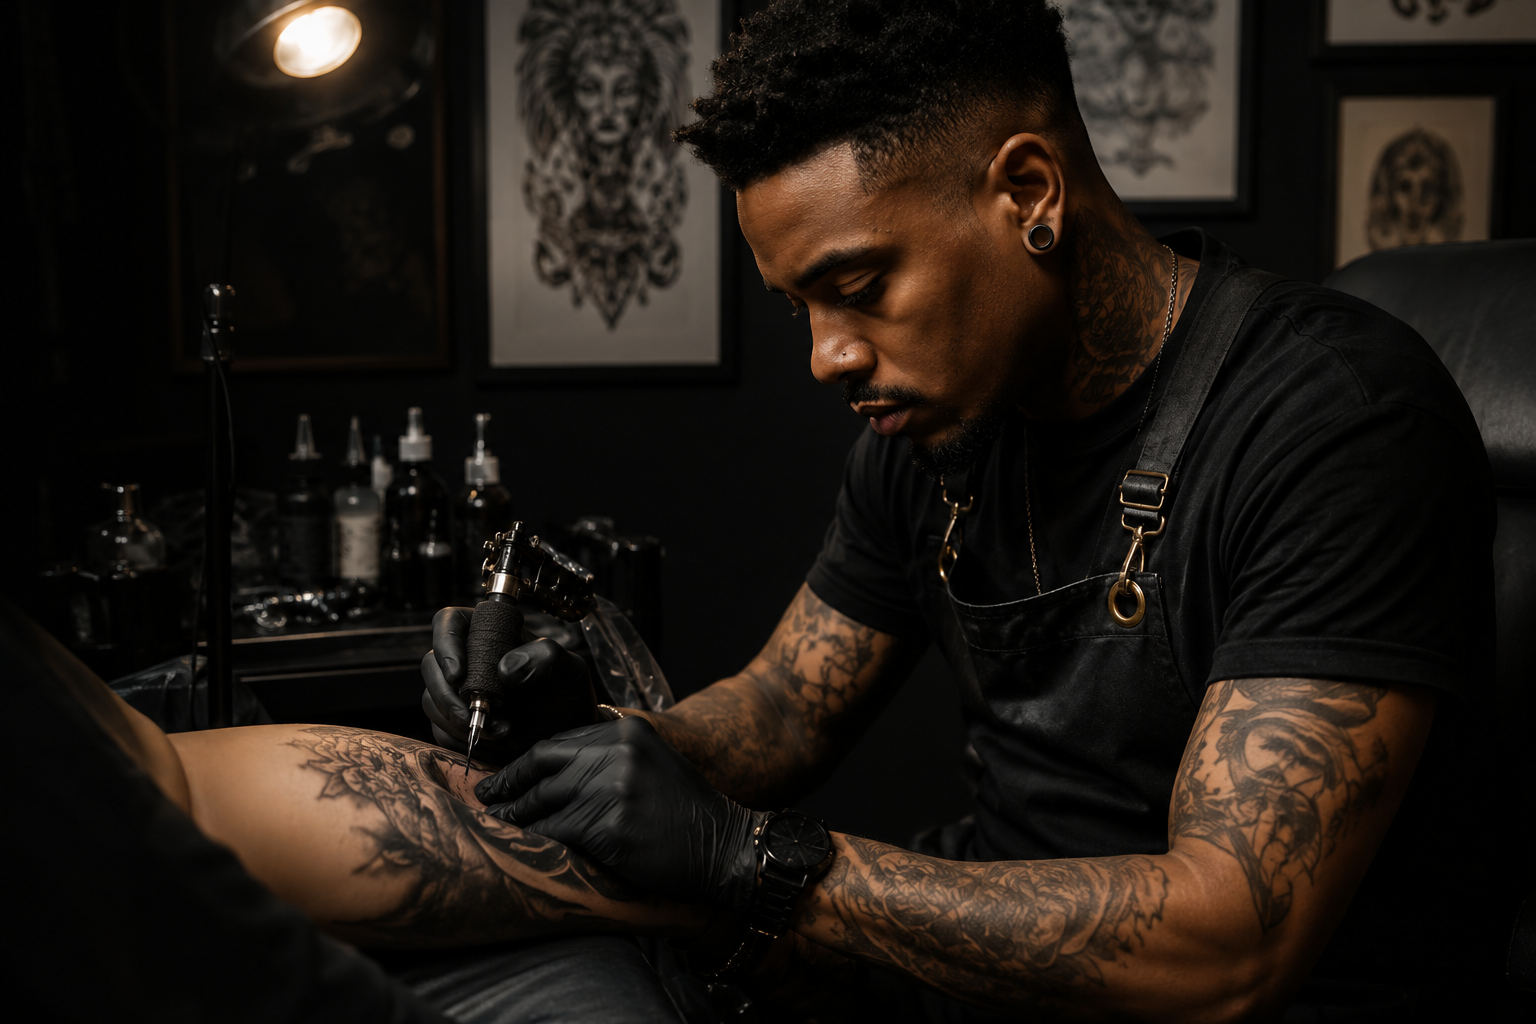
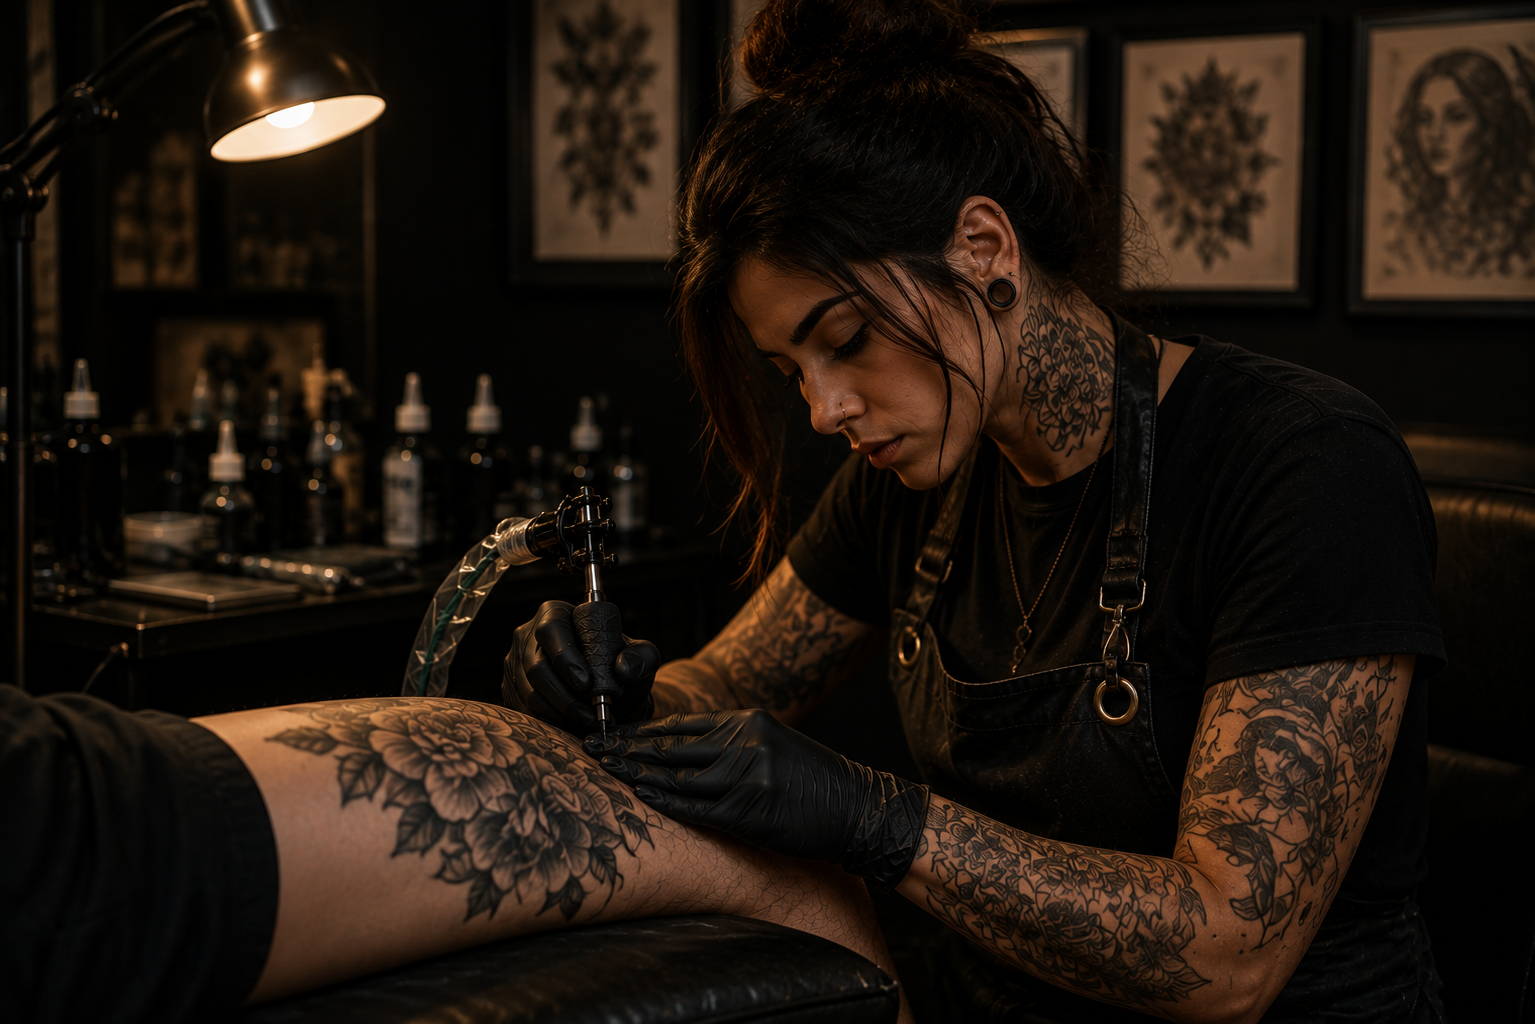
Complete landing page

diff --git a/index.html b/index.html
@@ -42,7 +42,7 @@
       <section class="about" id="about">
 
         <div class="about__image">
-          <img src="images/hero.jpg" alt="Ashton, tattoo artist">
+          <img src="images/ashton.png" alt="Ashton, tattoo artist">
         </div>
 
         <div class="about__content">
@@ -80,7 +80,7 @@
           <article class="service-card">
             
             <div class="service-card__image">
-              <img src="images/hero.jpg" alt="Custom tattoo artwork by Ashton">
+              <img src="images/ashton.png" alt="Custom tattoo artwork by Ashton">
             </div>
             
             <div class="service-card__content">
@@ -102,7 +102,7 @@
             
             <div class="service-card__image">
               
-              <img src="images/hero.jpg" alt="Hand drawn artwork by Ashton">
+              <img src="images/drawing-service.png" alt="Hand drawn artwork by Ashton">
             </div>
             
             <div class="service-card__content">
@@ -144,7 +144,7 @@
         <div class="featured-work__main">
 
           <div class="featured-work__image">
-            <img src="images/hero.jpg" alt="Featured tattoo artwork by Ashton">
+            <img src="images/featured-tattoo.png" alt="Featured tattoo artwork by Ashton">
           </div>
 
           <div class="featured-work__info">
@@ -174,11 +174,11 @@
         <div class="featured-work__bottom">
           
           <div class="featured-work__mini">
-            <img src="images/hero.jpg" alt="Tattoo artwork by Ashton">
+            <img src="images/featured-work-tattoo.png" alt="Tattoo artwork by Ashton">
           </div>
 
           <div class="featured-work__mini">
-            <img src="images/hero.jpg" alt="Hand drawing by Ashton">
+            <img src="images/featured-work-drawing.png" alt="Hand drawing by Ashton">
           </div>
 
           <a href="gallery.html" class="featured-work__gallery-link">View Full Gallery<i class="fas fa-arrow-right"></i></a>
@@ -207,19 +207,19 @@
         <div class="gallery-preview__grid">
           
           <div class="gallery-preview__item gallery-preview__item--large">
-            <img src="images/hero.jpg" alt="Tattoo artwork by Ashton">
+            <img src="images/gallery-1.png" alt="Tattoo artwork by Ashton">
           </div>
           
           <div class="gallery-preview__item">
-            <img src="images/hero.jpg" alt="Tattoo artwork by Ashton">
+            <img src="images/gallery-2.png" alt="Tattoo artwork by Ashton">
           </div>
           
           <div class="gallery-preview__item">
-            <img src="images/hero.jpg" alt="Hand drawing by Ashton"> 
+            <img src="images/gallery-3.png" alt="Hand drawing by Ashton"> 
           </div>
 
           <div class="gallery-preview__item gallery-preview__item--wide">
-            <img src="images/hero.jpg" alt="Artwork by Ashton">
+            <img src="images/gallery-4.png" alt="Artwork by Ashton">
           </div>
 
         </div>
@@ -265,6 +265,101 @@
 
       
     </main>
+    
+    <!-- FOOTER -->
+    <footer class="footer">
+      
+      <div class="footer__main">
+        
+        <!-- BRAND -->
+        <div class="footer__brand">
+          
+          
+          <!-- NEED TO TEPLACE WITH REAL IMAGE-->
+          
+          <a href="#" class="footer__logo">
+            Ashton
+            <span>TATTOO ARTIST</span>
+          </a>
+          
+          <p>
+            Creating art that speaks inspires and lasts.
+          </p>
+
+        </div>
+        
+        <!-- QUICK LINKS -->
+        <div class="footer__column">
+          
+          <h3>Explore</h3>
+          
+          <a href="#">Home</a>
+          <a href="#about">About</a>
+          <a href="#services">Services</a>
+          <a href="#work">Work</a>
+          <a href="gallery.html">Gallery</a>
+
+        </div>
+        
+        <!-- SOCIAL -->
+        <div class="footer__column">
+        
+          <h3>Connect</h3>
+        
+          <div class="footer__socials">
+          
+            <a href="#" aria-label="Instagram">
+              Instagram
+            </a>
+          
+            <a href="#" aria-label="Facebook">
+              Facebook
+            </a>
+          
+            <a href="#" aria-label="TikTok">
+              TikTok
+            </a>
+
+          </div>
+        
+          <p>
+            Available by appointment only.
+          </p>
+
+        </div>
+      
+        <!-- CONTACT -->
+        <div class="footer__column">
+        
+          <h3>Let's Talk</h3>
+        
+          <a href="https://wa.me/">
+            WhatsApp
+          </a>
+        
+          <a href="mailto:hello@example.com">
+            Email
+          </a>
+
+        </div>
+
+      </div>
+    
+      <!-- BOTTOM -->
+      <div class="footer__bottom">
+      
+        <p>
+          © 2026 Ashton Tattoo Artist. All rights reserved.
+        </p>
+      
+        <p>
+          Designed by Waltman Labs
+        </p>
+
+      </div>
+
+    </footer>
+
   </body>
   
   

diff --git a/css/index.css b/css/index.css
@@ -567,6 +567,7 @@ body {
 
 .booking__content {
   max-width: 45rem;
+  margin: 0 auto;
   display: flex;
   flex-direction: column;
   align-items: center;
@@ -628,7 +629,102 @@ body {
 
 
 
+/* =========================
+   FOOTER
+========================= */
 
+.footer {
+  padding: 4rem 1.5rem 2rem;
+  background: #0e0e0e;
+  color: #f5f1ea;
+}
+
+.footer__main {
+  display: grid;
+  gap: 3rem;
+}
+
+/* Will be removed i will replace with real image*/ 
+.footer__logo {
+  display: inline-flex;
+  flex-direction: column;
+  margin-bottom: 1.5rem;
+  color: #f5f1ea;
+  text-decoration: none;
+  font-family: Georgia, serif;
+  font-size: 2.5rem;
+  font-style: italic;
+}
+
+.footer__logo span {
+  margin-top: -0.3rem;
+  font-family: Arial, sans-serif;
+  font-size: 0.55rem;
+  font-style: normal;
+  letter-spacing: 0.2em;
+}
+
+.footer__brand p {
+  max-width: 15rem;
+  color: #8d8d8d;
+  line-height: 1.6;
+}
+
+
+.footer__column {
+  display: flex;
+  flex-direction: column;
+  align-items: flex-start;
+  gap: 0.7rem;
+}
+
+.footer__column h3 {
+  margin-bottom: 0.75rem;
+  font-size: 0.7rem;
+  font-weight: 500;
+  text-transform: uppercase;
+  letter-spacing: 0.12em;
+  color: #8d7252;
+}
+
+.footer__column a {
+  color: #bcbcbc;
+  text-decoration: none;
+  font-size: 0.85rem;
+  transition: color 0.3s ease;
+}
+
+.footer__column a:hover {
+  color: #f5f1ea;
+}
+
+.footer__column p {
+  margin-top: 1rem;
+  color: #777;
+  font-size: 0.8rem;
+}
+
+
+.footer__socials {
+  display: flex;
+  flex-direction: column;
+  gap: 0.7rem;
+}
+
+.footer__bottom {
+  margin-top: 4rem;
+  padding-top: 1.5rem;
+  border-top: 1px solid #292929;
+  display: flex;
+  flex-direction: column;
+  gap: 0.5rem;
+}
+
+.footer__bottom p {
+  margin: 0;
+  color: #666;
+  font-size: 0.7rem;
+}
 
 
 
@@ -746,6 +842,29 @@ body {
   .gallery-preview__item--wide {
     grid-column: span 2;
     height: auto;
+  }
+  
+  /* BOOKING CTA */
+  .booking {
+    padding: 8rem 8%;
+  }
+  
+  .booking__title {
+    font-size: clamp(4rem, 7vw, 7rem);
+  }
+  
+  .footer {
+    padding: 6rem 8% 2rem;
+  }
+  
+  .footer__main {
+    grid-template-columns: 2fr 1fr 1fr 1fr;
+    gap: 4rem;
+  }
+  
+  .footer__bottom {
+    flex-direction: row;
+    justify-content: space-between;
   }
   
   
